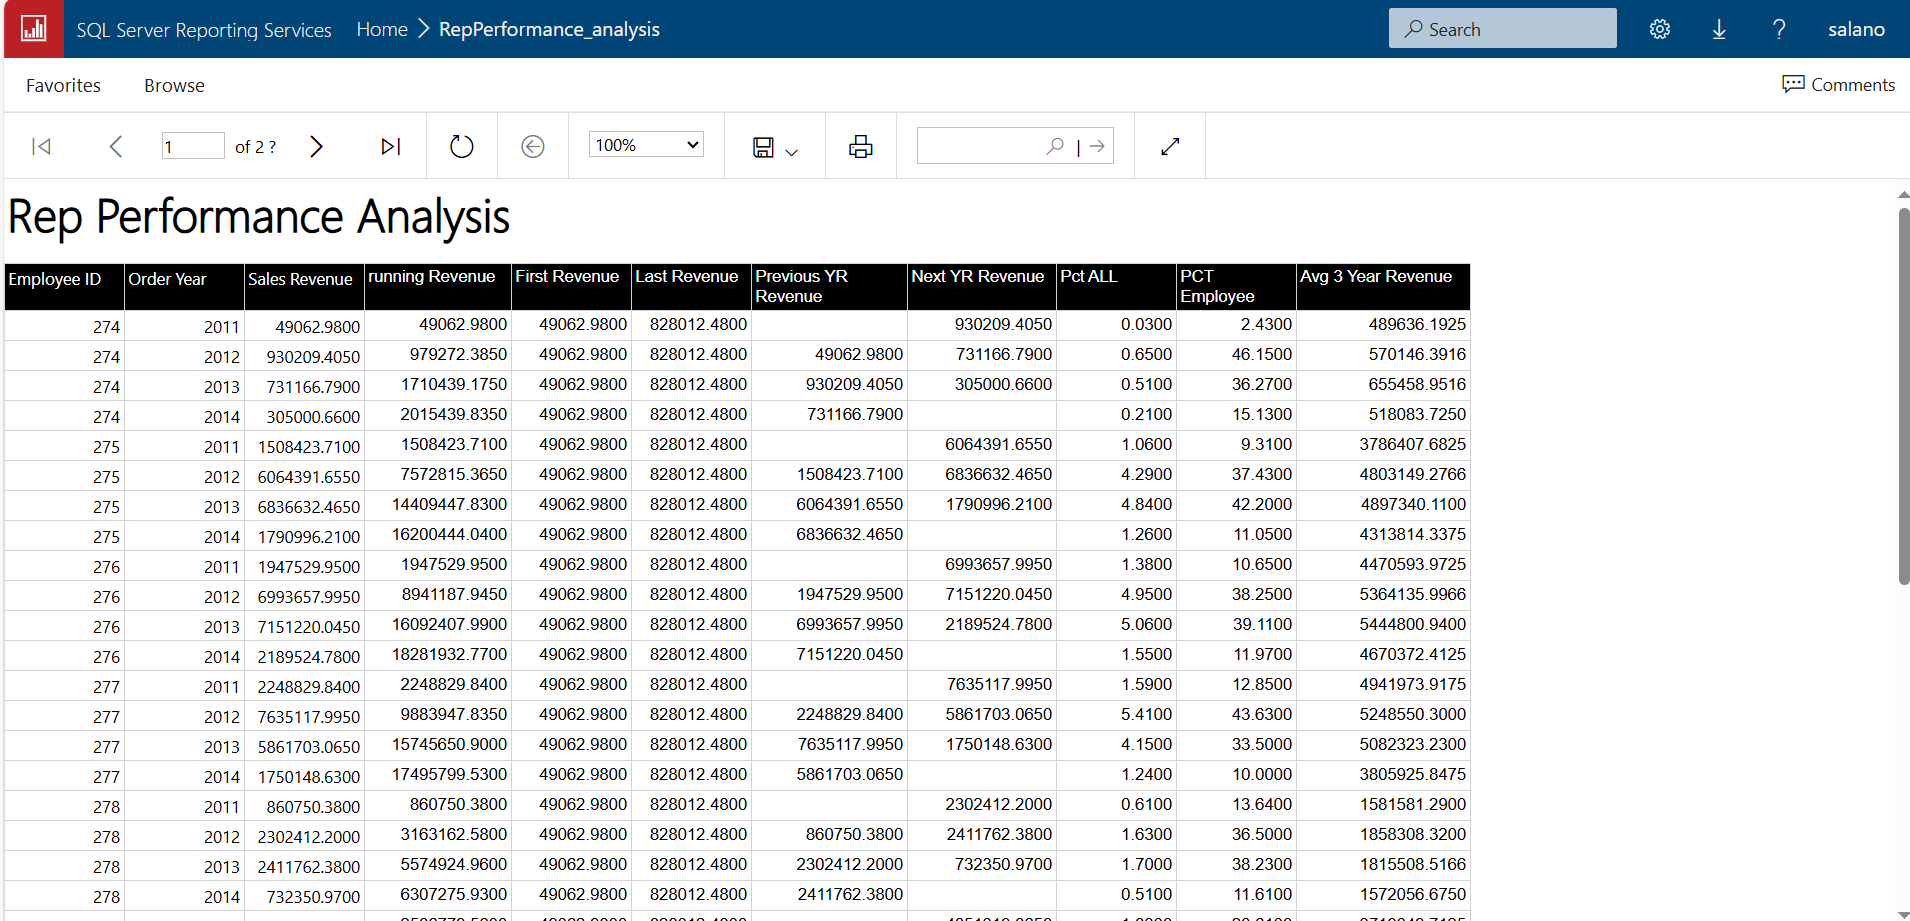
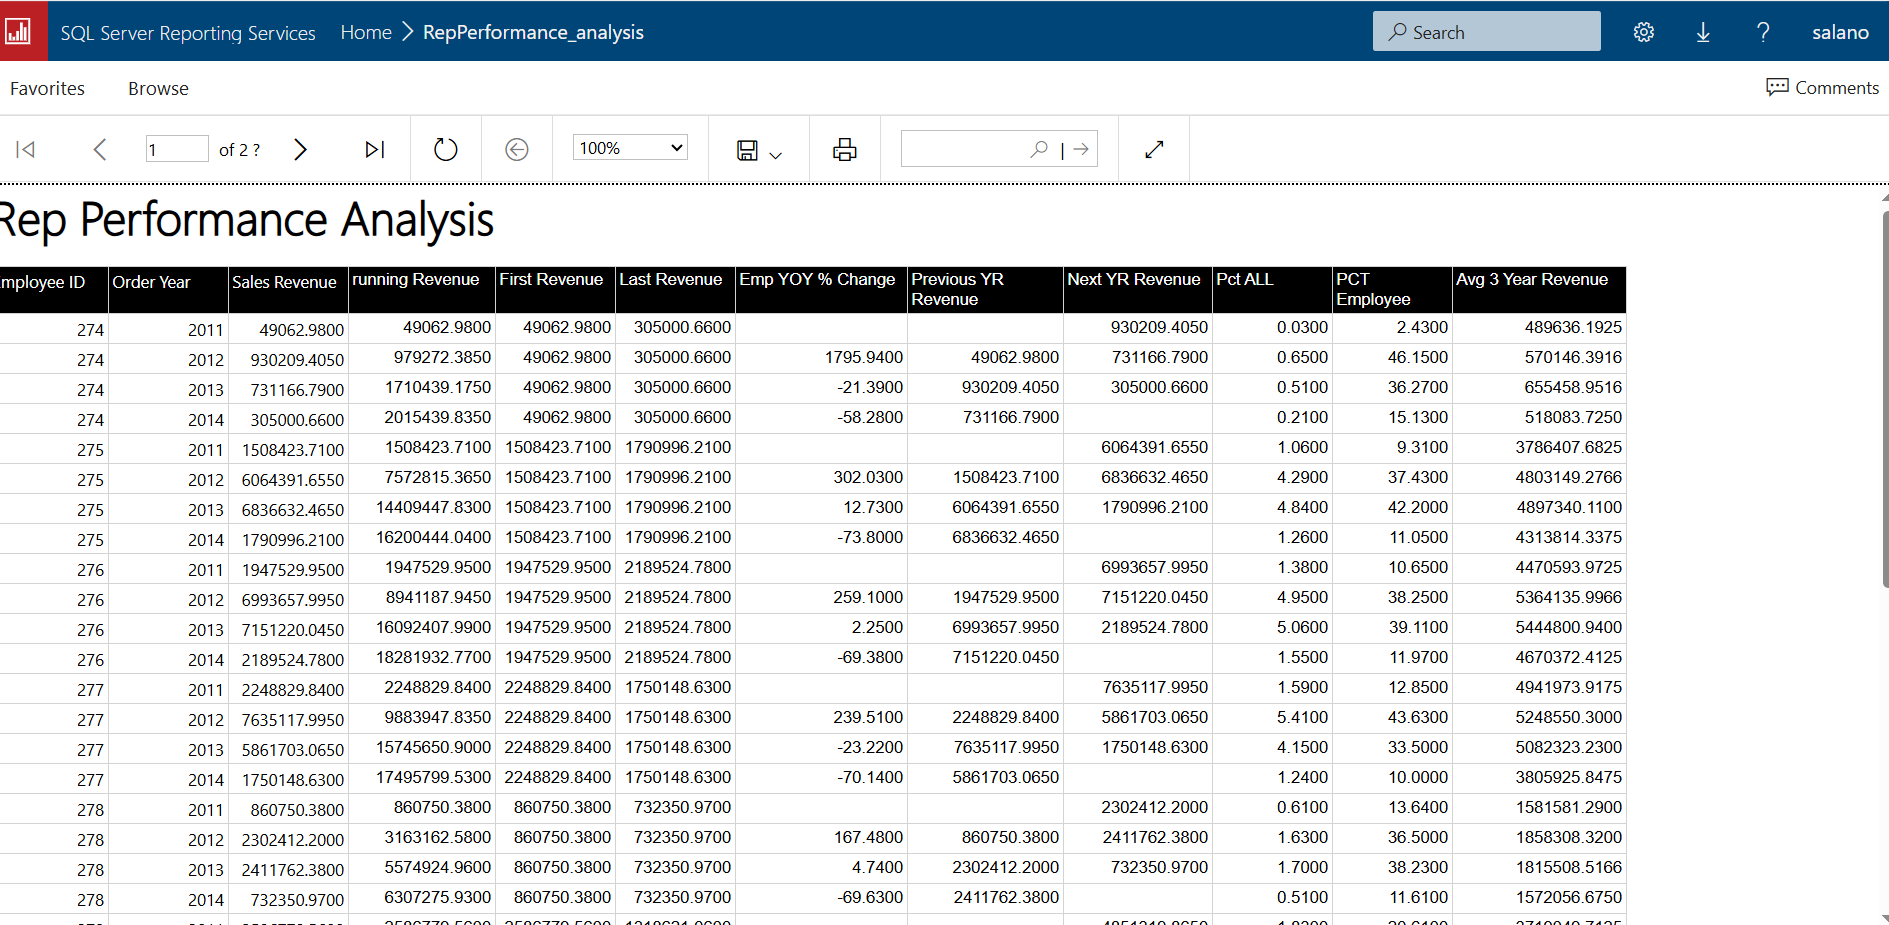
Added employee percent change

Changed region(s): [[0.0, 0.0, 1.0, 1.0], [0.9995, 0.9729, 1.0, 1.0], [0.9995, 0.608, 1.0, 0.6384]]

diff --git a/README.md b/README.md
@@ -9,6 +9,7 @@ Concepts covered:
 - window functions
 
   - running totals
+  - YOY change
   - row number
   - first value
   - last value
